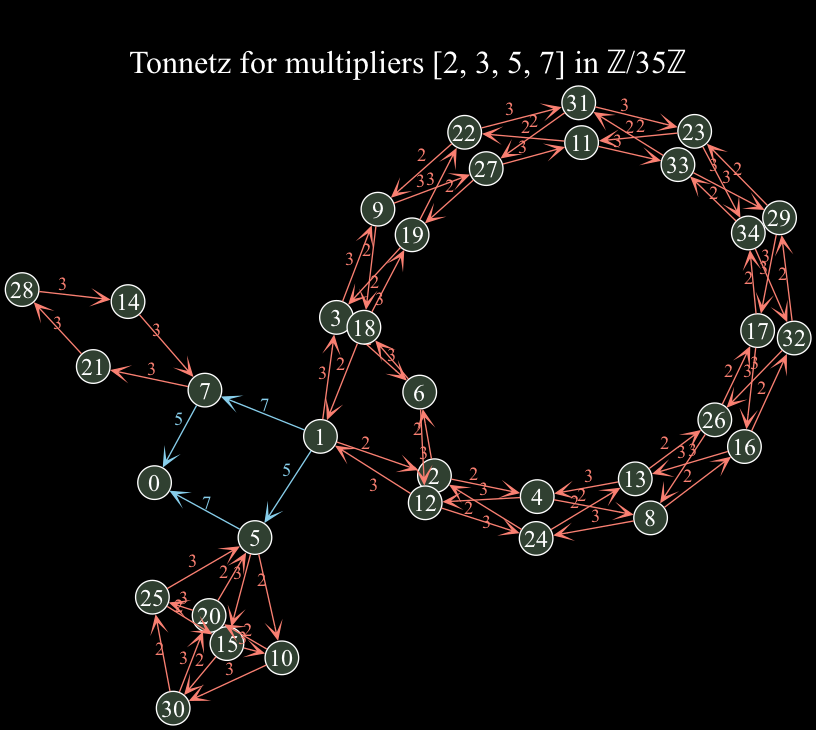
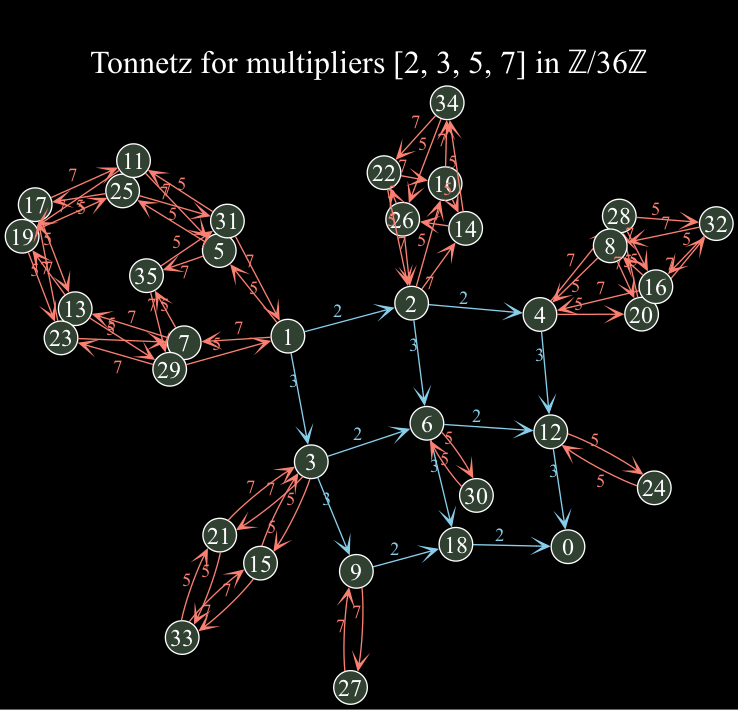
README work

diff --git a/tests/tonnetze/make_tonnetze.py b/tests/tonnetze/make_tonnetze.py
@@ -3,13 +3,26 @@ Script for generating images of tonnetze
 """
 from __future__ import annotations
 
+import networkx as nx
+import matplotlib.pyplot as plt
+
 from dissig.tonnetze.networks import Tonnetz
 from dissig.tonnetze.visualizers import nx_viz
 
 if __name__ == "__main__":
-    modulus = 35
+    modulus = 36
     integer_list = [2, 3, 5, 7]
 
     tonnetz = Tonnetz(modulus, integer_list)
 
     nx_viz(tonnetz, "test_viz", mode='neato', appearance_theme='dark')
+
+    # Create a graph
+    G = tonnetz.network
+    print('tonnetz.network:', G)
+    print("tonnetz.network.nodes:", G.nodes)
+    print("tonnetz.network.edges:", len(G.edges))
+    
+    nx.draw(G, with_labels=True)
+    
+    plt.show()

diff --git a/README.md b/README.md
@@ -149,7 +149,6 @@ A lot of this mystery can be calrified by modeling the signals as vertices in a 
 
 The *discrete* tonnetz captures how *discrete* spectral energy shifts under modular scaling, and reveals surprising orbit structures tied to the arithmetic of the modulus. 
 
-That said, if you pass this graph naively into a graph visualization library like `networkx.drawing`, the result is nearly unreadable — cluttered, asymmetric, and blind to the underlying modular symmetries that actually organize the space. For a quick example, we can import `dissig`'s discrete tonnetz class `Tonnetz`:
 ```python
 >>> from dissig.tonnetze.networks import Tonnetz # dissig Tonnetz class
 ```
@@ -159,10 +158,13 @@ We instantiate the discrete tonnetz for discrete signals with sample count $=36$
 >>> integer_list = [2, 3, 5, 7] # Integers to induce edges in tonnetz
 >>> tonnetz = Tonnetz(modulus, integer_list) # Instantiate Tonnetz instance
 ```
-A naively application of `networkx.drawing` library 
+[...]
 ```python
->>> [...]
+>>> print(tonnetz.network)
+DiGraph with 36 nodes and 127 edges
 ```
+
+That said, if you pass this graph naively into a graph visualization library like `networkx.drawing`, the result is nearly unreadable — cluttered, asymmetric, and blind to the underlying modular symmetries that actually organize the space. For a quick example, we can import `dissig`'s discrete tonnetz class `Tonnetz`:
 <p align="center">
   <picture>
     <source srcset="docs/images/tonnetz_36_dark.jpg" media="(prefers-color-scheme: dark)">
